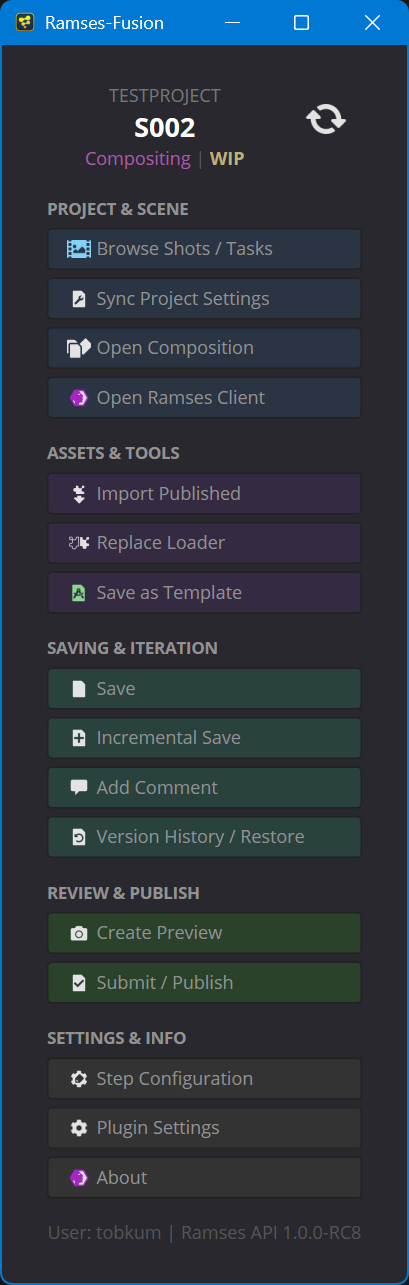
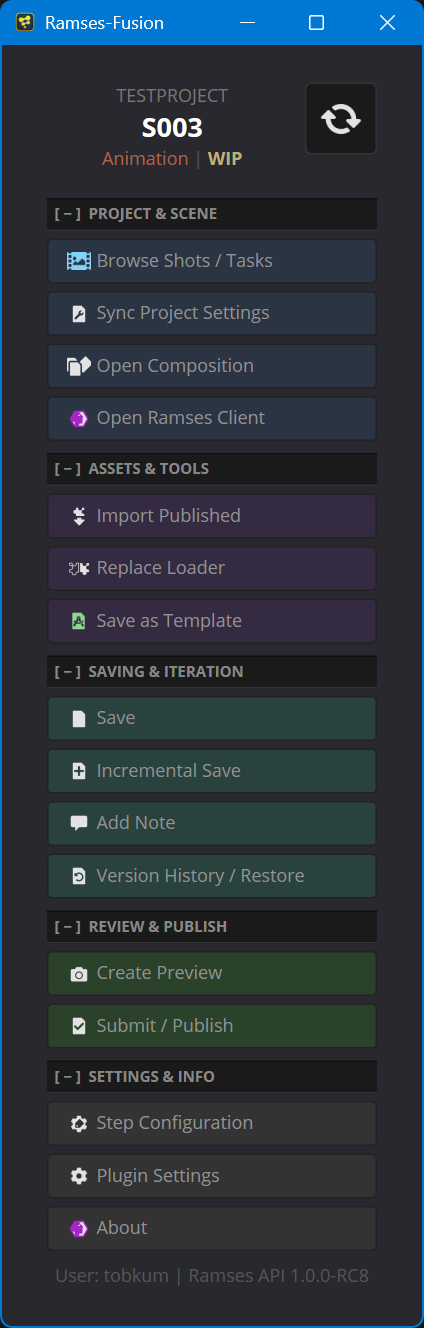
improve update button style, update screenshot

diff --git a/Ramses-Fusion/Ramses-Fusion.py b/Ramses-Fusion/Ramses-Fusion.py
@@ -844,11 +844,12 @@ class RamsesFusionApp:
                                                         "MinimumSize": [48, 48],
                                                         "MaximumSize": [48, 48],
                                                         "IconSize": [32, 32],
-                                                        "Flat": True,
+                                                        "Flat": False,
                                                         "ToolTip": "Manually refresh the context header.",
                                                         "Icon": self._get_icon(
                                                             "ramupdate.png"
                                                         ),
+                                                        "StyleSheet": "QPushButton { border: 1px solid #333; background-color: #1a1a1a; border-radius: 4px; } QPushButton:hover { background-color: #252525; border: 1px solid #444; } QPushButton:pressed { background-color: #111; border: 1px solid #222; }",
                                                     }
                                                 ),
                                             ],
